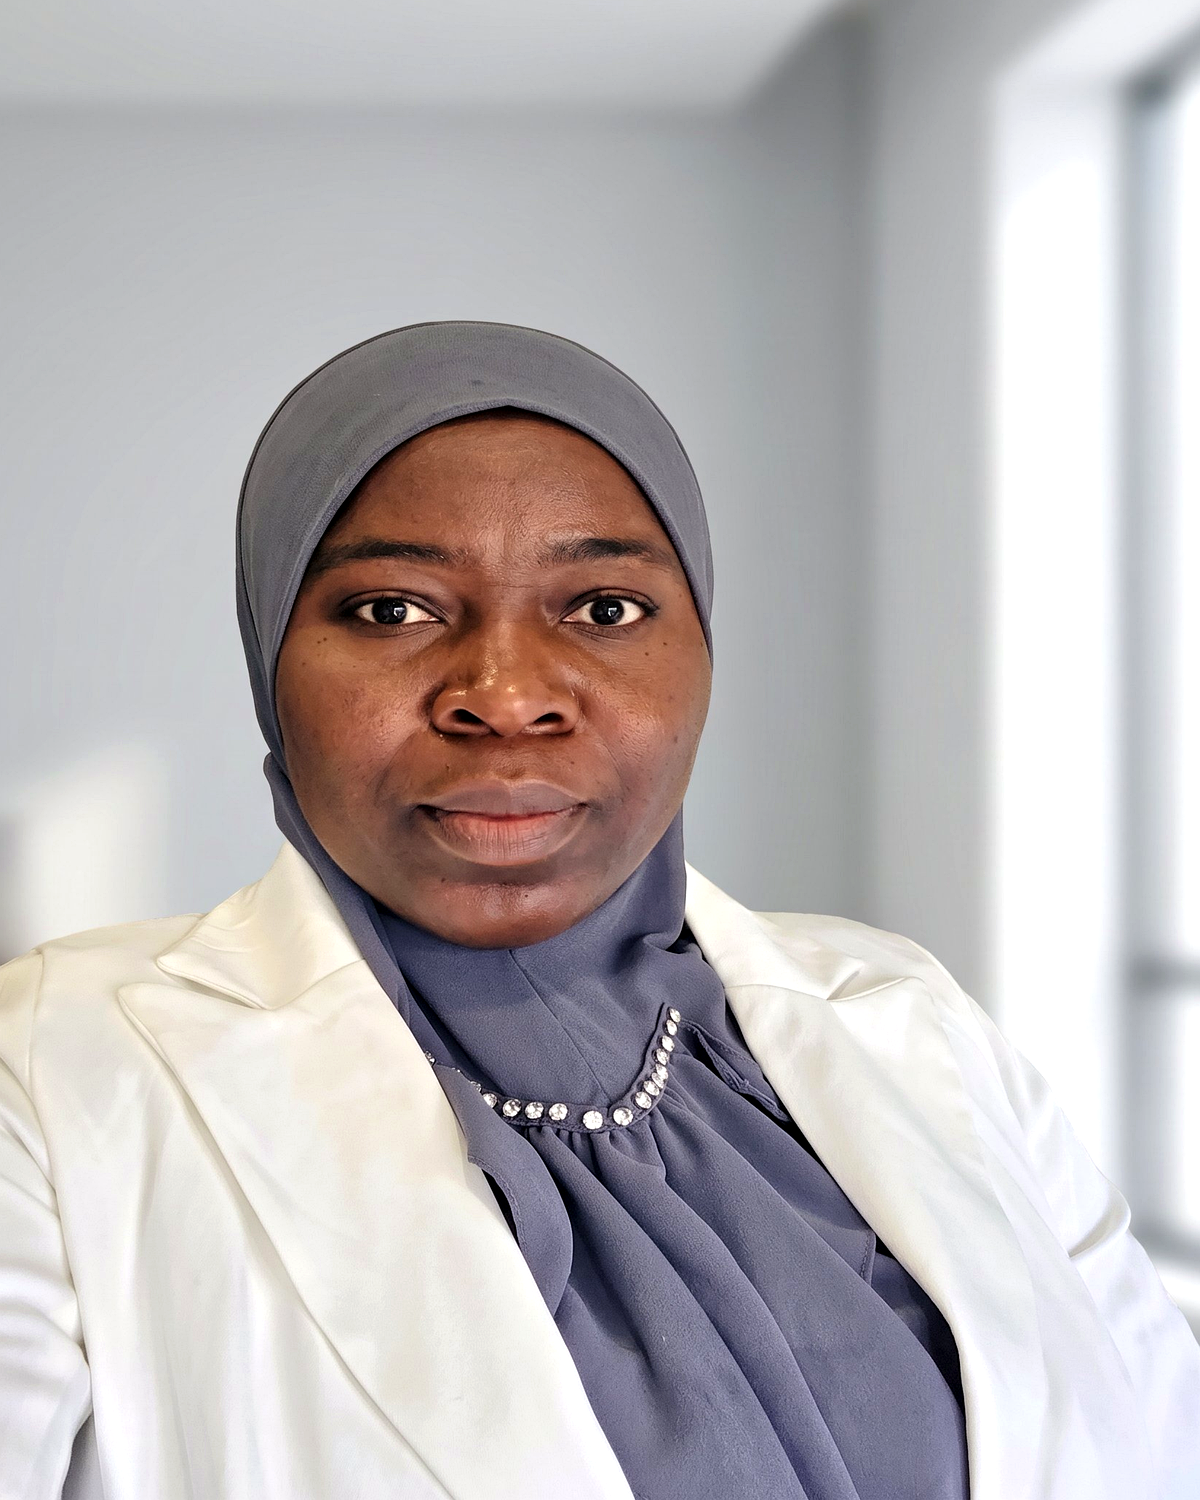
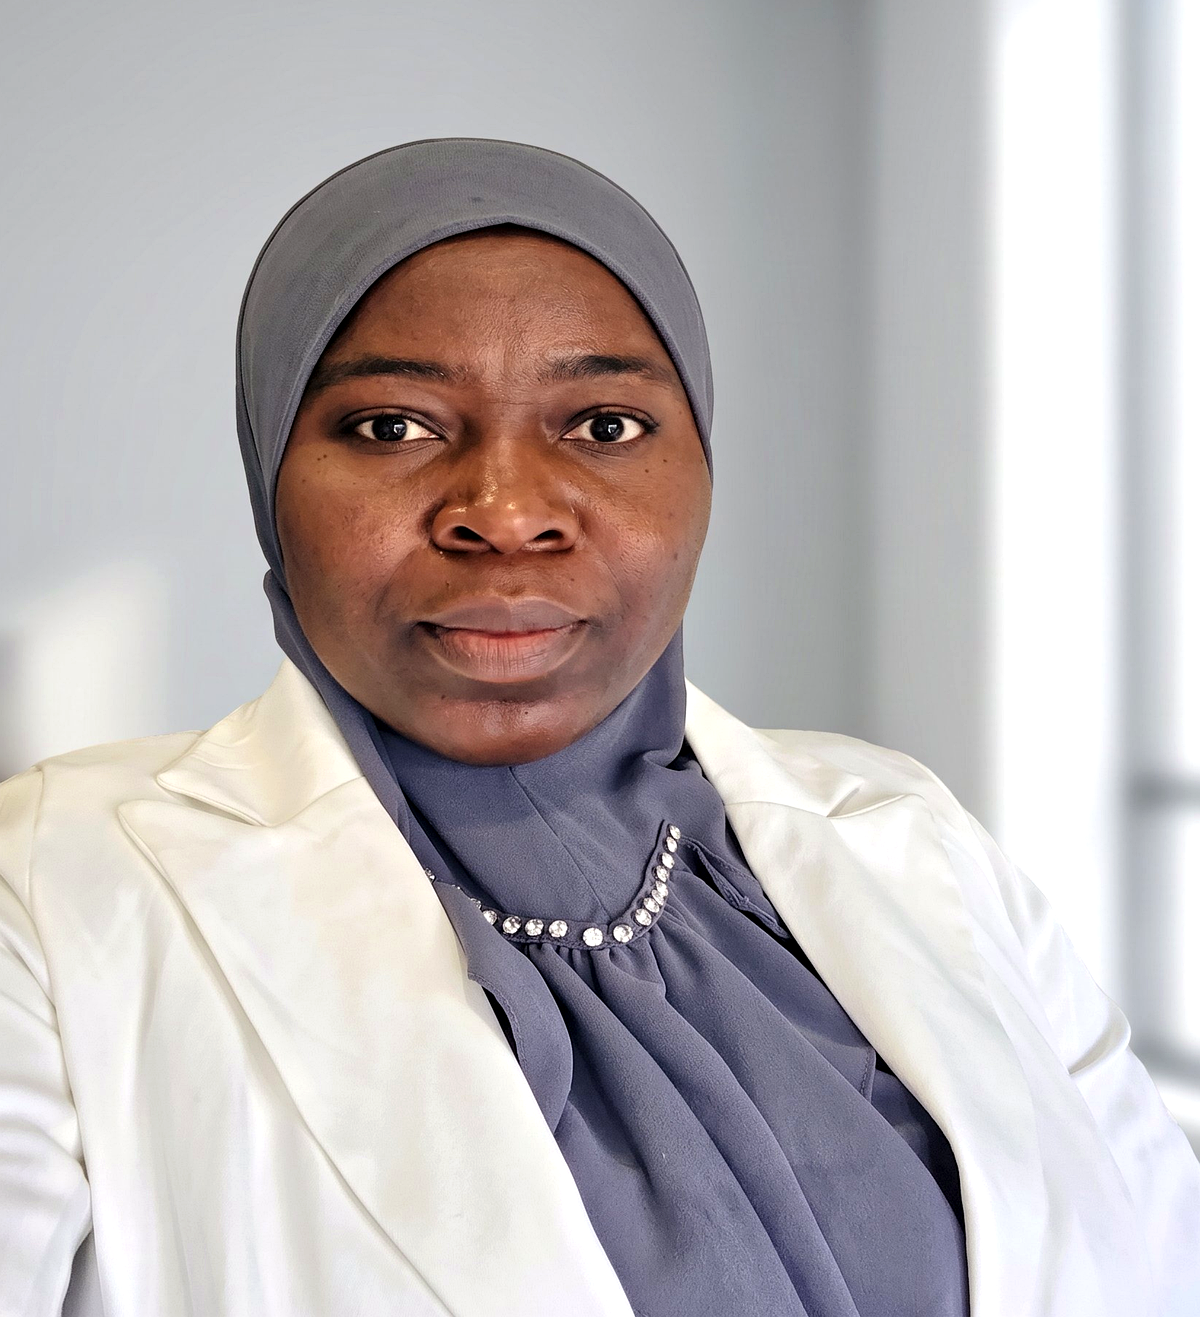
Update contact information and descriptions in ContactPage and Footer components for clarity, and revise campaign description in CausesPage for improved engagement. Replace Director.png in the team section.

diff --git a/src/app/causes/page.tsx b/src/app/causes/page.tsx
@@ -247,7 +247,7 @@ export default function CausesPage(){
 								{
 									title: "2. Issue-Based Campaigns",
 									description:
-										"Our campaigns shine a spotlight on specific challenges affecting vulnerable populations. Whether it’s advocating for improved school infrastructure, access to safe drinking water, or total well being of children in challenging situations. These campaigns mobilize communities, volunteers, and partners to take action and drive change.",
+										"Our campaigns shine a spotlight on specific challenges affecting vulnerable populations. Whether it’s advocating for improved school infrastructure, access to safe drinking water, or to promoting the overall well-being of children in difficult circumstances, we are dedicated to building brighter futures and stronger communities. These campaigns mobilize communities, volunteers, and partners to take action and drive change.",
 								},
 								{
 									title: "3. Stakeholder Meetings & Consultations",

diff --git a/src/components/Footer.tsx b/src/components/Footer.tsx
@@ -73,12 +73,14 @@ const Footer: React.FC = () => {
 							<p className="flex items-center gap-3">
 								<PhoneCall className="shrink-0 text-secondary" size={18} aria-hidden="true" />
 								<Link href="'tel:+2348068287964" className="hover:text-secondary transition-colors">+234 806 828 7964</Link>
+								|
 								<Link href="tel:+2348069521144" className="hover:text-secondary transition-colors">+234 806 952 1144</Link>
 							</p>
+				
 
 							<p className="flex items-start gap-3">
 								<MapPin className="shrink-0 mt-0.5 text-secondary" size={18} aria-hidden="true" />
-								<span>Coming soon...</span>
+								<span>Virtual Operations – Physical Location Coming Soon</span>
 							</p>
 
 							{/* FIX: WhatsApp link — was MessageCircleHeart without proper href */}

diff --git a/src/app/contacts/page.tsx b/src/app/contacts/page.tsx
@@ -262,15 +262,15 @@ const ContactPage: React.FC = () => {
 						icon={<MessageCircleHeart className="shrink-0" size={20} />}
 						title="WhatsApp Us"
 						link={{
-							href: 'https://wa.me/2348067094933',
-							label: '+234  806 828 7964',
+							href: 'https://wa.me/2348068287964',
+							label: '+234 806 828 7964 (WhatsApp)',
 						}}
 						content="Quick responses for urgent inquiries."
 					/>
 					<ContactInfo
 						icon={<Users className="shrink-0" size={20} />}
 						title="Visit Us"
-						content="Coming soon"
+						content="Virtual Operations – Physical Location Coming Soon"
 					/>
 				</div>
 			</section>
